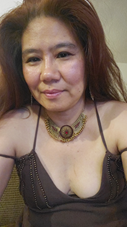
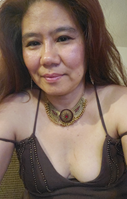
images resizes

diff --git a/index.html b/index.html
@@ -94,7 +94,7 @@
         <div class="page" style="z-index:0;">
             <div class="front">
                 <div class="page-number">13</div>
-                <img class="tallimage" src="/images/author.png" alt="Thuzar" height="550" width="300" />            
+                <img class="tallimage" src="/images/author.png" alt="Thuzar" height="650" width="600" />            
             </div>
             <div class="back">
                 <div class="page-number">14</div>
@@ -105,7 +105,7 @@
                     <ul>
                         <li>Being clear: Saying what you want instead of expecting someone to read your mind...</li>
                         <li>Being honest: Expressing your genuine feelings without pretending...</li>
-                        <li>Asking questions: Asking someone whether they are single or interested rather than making assumptions...</li>
+                        <li>Asking questions: Asking someone questions rather than making assumptions...</li>
                         <li>Being straightforward: Discussing misunderstandings instead of using silent treatment or jealousy games...</li>
                         <li>Being consistent: Making sure your words and actions match...</li>
                         <li>Respecting boundaries: Saying what you are comfortable with and listening to the other person's boundaries...</li>
@@ -139,7 +139,7 @@
         </div>
         <div class="page" style="z-index:-2;">
             <div class="front">
-                <img class="circleimage" src="/images/quiet-reflections.png" alt="Reflections" width="250" height="250" />
+                <img class="circleimage" src="/images/quiet-reflections.png" alt="Reflections" width="127" height="199" />
                 <ul>
                     <li>My deepest boundary has always been <b>loyalty</b> </li>
                     <li>Not perfection. Not constant attention. Just honesty, reassurance, and emotional consistency...</li>
